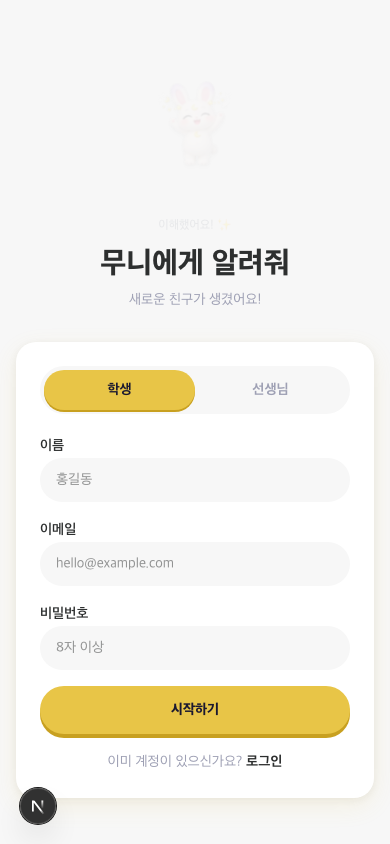
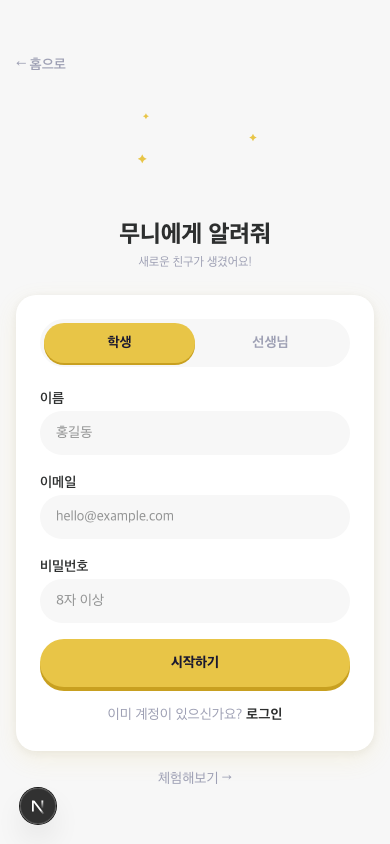
style: 랜딩 배경 무니 제거 + 로그인/회원가입 디자인 개선
- 랜딩 페이지: 데스크톱 우상단/좌하단 작은 무니 2마리 제거
- 회원가입: 캐릭터 160→90px 축소, "← 홈으로" + "체험해보기 →" 링크 추가
- 로그인: 캐릭터 160→90px 축소, "← 홈으로" 링크 추가
- 두 페이지 세로 길이 대폭 단축

diff --git a/src/app/(auth)/signup/page.tsx b/src/app/(auth)/signup/page.tsx
@@ -55,13 +55,20 @@ export default function SignupPage() {
   }
 
   return (
-    <div className="min-h-screen flex flex-col items-center justify-center px-4" style={{ background: '#F7F7F7' }}>
+    <div className="min-h-screen flex flex-col items-center justify-center px-4 py-8" style={{ background: '#F7F7F7' }}>
       <div className="w-full max-w-sm">
+        {/* 홈 링크 */}
+        <div className="mb-4">
+          <Link href="/" className="text-sm font-semibold transition-opacity hover:opacity-70" style={{ color: '#9EA0B4' }}>
+            ← 홈으로
+          </Link>
+        </div>
+
         {/* 캐릭터 + 앱 이름 */}
-        <div className="flex flex-col items-center mb-8">
-          <MooniCharacter expression="happy" size={160} className="mb-4" />
-          <h1 className="text-3xl font-extrabold" style={{ color: '#2D2F2F' }}>무니에게 알려줘</h1>
-          <p className="text-sm mt-2" style={{ color: '#9EA0B4' }}>새로운 친구가 생겼어요!</p>
+        <div className="flex flex-col items-center mb-6">
+          <MooniCharacter expression="happy" size={90} className="mb-3" />
+          <h1 className="text-2xl font-extrabold" style={{ color: '#2D2F2F' }}>무니에게 알려줘</h1>
+          <p className="text-xs mt-1" style={{ color: '#9EA0B4' }}>새로운 친구가 생겼어요!</p>
         </div>
 
         {/* 폼 카드 — Claymorphism */}
@@ -189,6 +196,13 @@ export default function SignupPage() {
               </Link>
             </span>
           </div>
+        </div>
+
+        {/* 체험 링크 */}
+        <div className="mt-4 text-center">
+          <Link href="/demo" className="text-sm transition-opacity hover:opacity-70" style={{ color: '#9EA0B4' }}>
+            체험해보기 →
+          </Link>
         </div>
       </div>
     </div>

diff --git a/src/app/(auth)/login/page.tsx b/src/app/(auth)/login/page.tsx
@@ -40,13 +40,20 @@ export default function LoginPage() {
   }
 
   return (
-    <div className="min-h-screen flex flex-col items-center justify-center px-4" style={{ background: '#F7F7F7' }}>
+    <div className="min-h-screen flex flex-col items-center justify-center px-4 py-8" style={{ background: '#F7F7F7' }}>
       <div className="w-full max-w-sm">
+        {/* 홈 링크 */}
+        <div className="mb-4">
+          <Link href="/" className="text-sm font-semibold transition-opacity hover:opacity-70" style={{ color: '#9EA0B4' }}>
+            ← 홈으로
+          </Link>
+        </div>
+
         {/* 캐릭터 + 앱 이름 */}
-        <div className="flex flex-col items-center mb-8">
-          <MooniCharacter expression="curious" size={160} className="mb-4" />
-          <h1 className="text-3xl font-extrabold" style={{ color: '#2D2F2F' }}>무니에게 알려줘</h1>
-          <p className="text-sm mt-2" style={{ color: '#9EA0B4' }}>무니가 기다리고 있어요!</p>
+        <div className="flex flex-col items-center mb-6">
+          <MooniCharacter expression="curious" size={90} className="mb-3" />
+          <h1 className="text-2xl font-extrabold" style={{ color: '#2D2F2F' }}>무니에게 알려줘</h1>
+          <p className="text-xs mt-1" style={{ color: '#9EA0B4' }}>무니가 기다리고 있어요!</p>
         </div>
 
         {/* 폼 카드 — Claymorphism */}

diff --git a/src/app/page.tsx b/src/app/page.tsx
@@ -349,21 +349,6 @@ export default function LandingPage() {
               />
             </motion.div>
 
-            {/* 우상단 작은 무니 */}
-            <div
-              className="absolute"
-              style={{ top: 20, right: -10, opacity: 0.40, width: 135, height: 90 }}
-            >
-              <Image src="/mooni/curious.png" alt="" fill className="object-contain" aria-hidden="true" />
-            </div>
-
-            {/* 좌하단 작은 무니 */}
-            <div
-              className="absolute"
-              style={{ bottom: 30, left: -10, opacity: 0.30, width: 120, height: 80 }}
-            >
-              <Image src="/mooni/oops.png" alt="" fill className="object-contain" aria-hidden="true" />
-            </div>
           </div>
         </div>
       </section>
